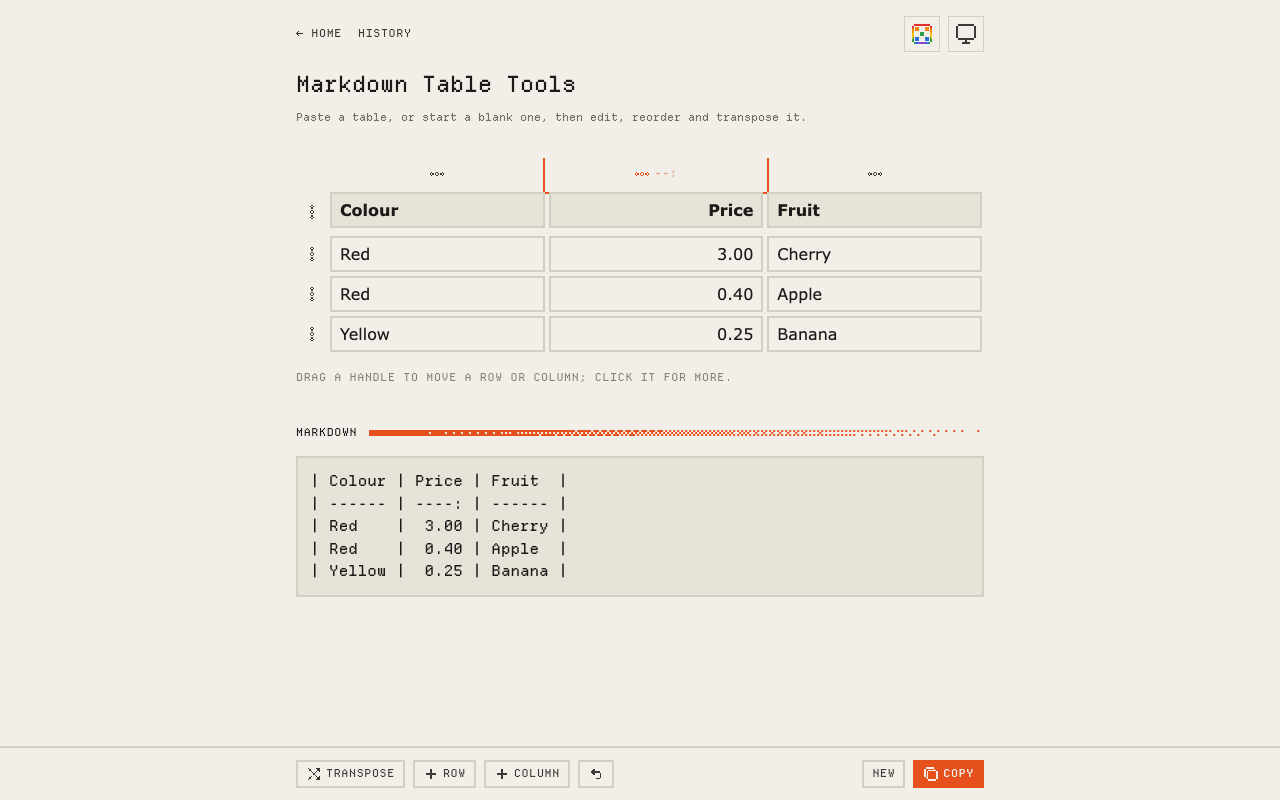
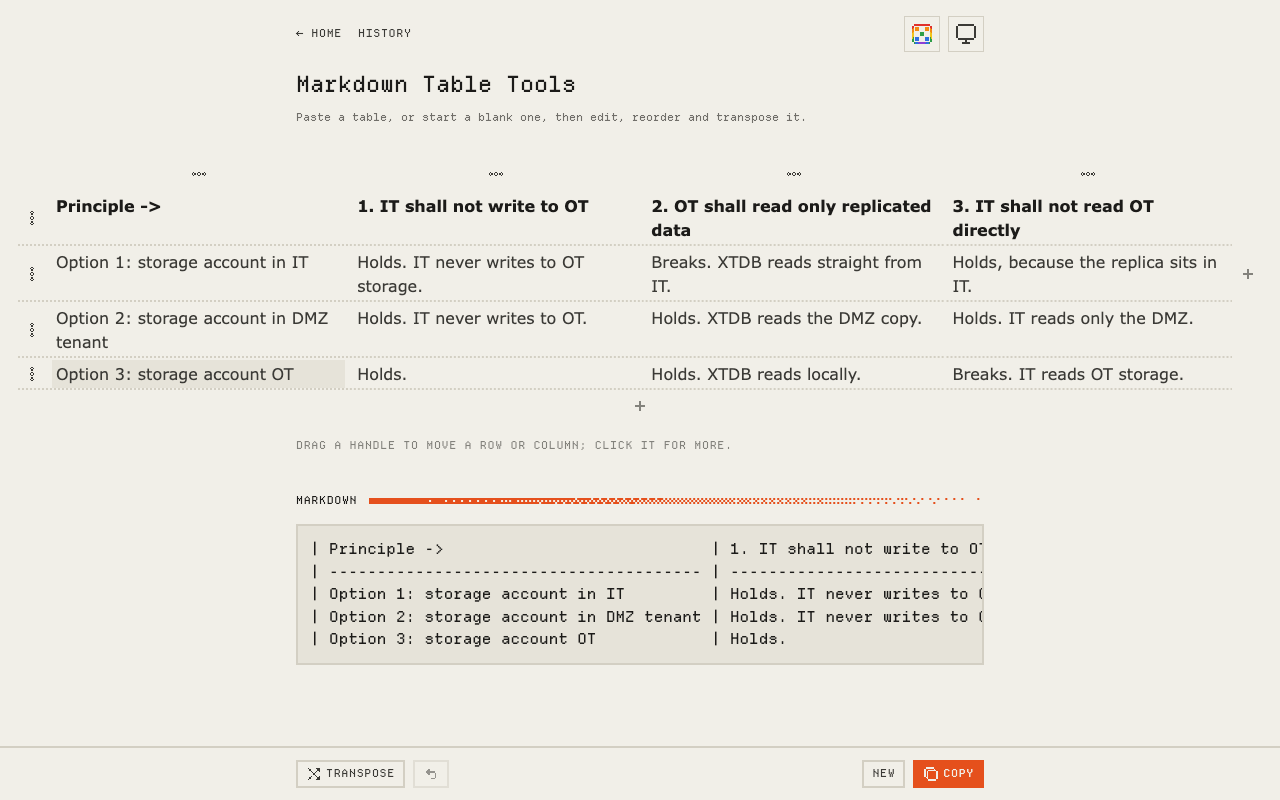
feat(markdown-table): cells show all their text in a plain table that can grow past the column
Cells are .pixel-grow textareas in a .pixel-table, so text wraps instead
of being cut off and the boxes are gone. The table sits in .pixel-bleed:
it widens out of the 720px column on a wide screen and scrolls sideways
on a phone. Add row and add column move from the palette to the table's
bottom and right edges, where the new row or column will appear. A cell
is one line in Markdown, so Enter moves down a row and pasted newlines
become spaces.

diff --git a/src/pages/markdown-table/_app/app.jsx b/src/pages/markdown-table/_app/app.jsx
@@ -187,18 +187,24 @@ const Editor = ({ table, update, undo, canUndo, onNew }) => {
     } catch { /* the Markdown is still on screen to select by hand */ }
   };
 
+  const moveOnEnter = (r, c) => e => {
+    if (e.key !== 'Enter') return;
+    e.preventDefault();
+    grid.current.querySelector(`[data-cell="${e.shiftKey ? r - 1 : r + 1},${c}"]`)?.focus();
+  };
+
   const handle = 'pixel-icon-button touch-none select-none cursor-grab active:cursor-grabbing';
   const alignClass = { left: 'text-left', center: 'text-center', right: 'text-right' };
 
   return (
     <>
-      <div className="mt-6 overflow-x-auto pb-2">
-        <table ref={grid} className="border-collapse">
-          <thead>
-            <tr>
-              <th aria-hidden="true" />
+      <div className="pixel-bleed mt-6 pb-2">
+        <table ref={grid} className="pixel-table w-auto mx-auto min-w-[min(100%,calc(720px-2rem))]">
+          <tbody>
+            <tr className="bg-none">
+              <td aria-hidden="true" className="p-0" />
               {table.align.map((align, c) => (
-                <th key={c} data-column-handle className="p-0 text-center" style={cellStyle(-1, c)}>
+                <td key={c} data-column-handle className="p-0 text-center" style={cellStyle(-1, c)}>
                   <button
                     type="button"
                     aria-label={`Column ${c + 1}`}
@@ -210,11 +216,20 @@ const Editor = ({ table, update, undo, canUndo, onNew }) => {
                     <Icon svg={gripHorizontal} className="w-4 h-4" />
                     {align && <span className="label ml-1 opacity-60">{{ left: ':--', center: ':-:', right: '--:' }[align]}</span>}
                   </button>
-                </th>
+                </td>
               ))}
+              <td rowSpan={rowCount + 1} className="relative w-8 p-0">
+                <button
+                  type="button"
+                  onClick={() => update(T.insertColumn(table, columnCount))}
+                  aria-label="Add column"
+                  title="Add column"
+                  className="pixel-icon-button absolute inset-0 w-full opacity-60 hover:opacity-100"
+                >
+                  <Icon svg={plusIcon} className="w-4 h-4" />
+                </button>
+              </td>
             </tr>
-          </thead>
-          <tbody>
             {table.cells.map((row, r) => (
               <tr key={r}>
                 <td data-row-handle className="p-0 align-middle" style={cellStyle(r, -1)}>
@@ -230,17 +245,37 @@ const Editor = ({ table, update, undo, canUndo, onNew }) => {
                   </button>
                 </td>
                 {row.map((value, c) => (
-                  <td key={c} className={`p-0.5 ${r === 0 ? 'pb-1.5' : ''} ${dragging(r, c) ? 'opacity-40' : ''}`} style={cellStyle(r, c)}>
-                    <input
-                      aria-label={`Row ${r + 1}, column ${c + 1}`}
-                      value={value}
-                      onChange={e => update(T.setCell(table, r, c, e.target.value), { typing: [r, c] })}
-                      className={`pixel-field w-full min-w-[7rem] ${alignClass[table.align[c]] ?? ''} ${r === 0 ? 'font-bold bg-code-bg' : ''}`}
-                    />
+                  <td key={c} className={`px-1 py-0.5 align-top ${dragging(r, c) ? 'opacity-40' : ''}`} style={cellStyle(r, c)}>
+                    <div className={`pixel-grow min-w-32 max-w-80 ${r === 0 ? 'font-bold text-heading' : ''}`} data-value={value}>
+                      <textarea
+                        rows={1}
+                        cols={1}
+                        data-cell={`${r},${c}`}
+                        aria-label={`Row ${r + 1}, column ${c + 1}`}
+                        value={value}
+                        onChange={e => update(T.setCell(table, r, c, e.target.value.replace(/\r?\n/g, ' ')), { typing: [r, c] })}
+                        onKeyDown={moveOnEnter(r, c)}
+                        className={alignClass[table.align[c]]}
+                      />
+                    </div>
                   </td>
                 ))}
               </tr>
             ))}
+            <tr className="bg-none">
+              <td className="p-0" />
+              <td colSpan={columnCount} className="p-0">
+                <button
+                  type="button"
+                  onClick={() => update(T.insertRow(table, rowCount))}
+                  aria-label="Add row"
+                  title="Add row"
+                  className="pixel-icon-button w-full opacity-60 hover:opacity-100"
+                >
+                  <Icon svg={plusIcon} className="w-4 h-4" />
+                </button>
+              </td>
+            </tr>
           </tbody>
         </table>
       </div>
@@ -252,12 +287,6 @@ const Editor = ({ table, update, undo, canUndo, onNew }) => {
       <div className="pixel-bar flex flex-wrap items-center gap-2">
         <button type="button" onClick={() => update(T.transpose(table))} className="pixel-button inline-flex items-center gap-1">
           <Icon svg={switchIcon} className="w-4 h-4" />Transpose
-        </button>
-        <button type="button" onClick={() => update(T.insertRow(table, rowCount))} aria-label="Add row" className="pixel-button inline-flex items-center gap-1">
-          <Icon svg={plusIcon} className="w-4 h-4" />Row
-        </button>
-        <button type="button" onClick={() => update(T.insertColumn(table, columnCount))} aria-label="Add column" className="pixel-button inline-flex items-center gap-1">
-          <Icon svg={plusIcon} className="w-4 h-4" />Column
         </button>
         <button type="button" onClick={undo} disabled={!canUndo} aria-label="Undo" title="Undo" className="pixel-button inline-flex items-center">
           <Icon svg={undoIcon} className="w-4 h-4" />

diff --git a/src/pages/markdown-table/_app/app.test.jsx b/src/pages/markdown-table/_app/app.test.jsx
@@ -70,6 +70,39 @@ describe('Markdown Table Tools', () => {
     expect(output()).toBe('|   a |\n| --: |');
   });
 
+  test('add row sits under the table and appends a row', () => {
+    render(<App />);
+    pasteTable('|a|\n|-|');
+    const add = screen.getByRole('button', { name: 'Add row' });
+    expect(add.closest('tbody')).toBeTruthy();
+    fireEvent.click(add);
+    expect(output()).toBe('| a   |\n| --- |\n|     |');
+  });
+
+  test('add column sits beside the table and appends a column', () => {
+    render(<App />);
+    pasteTable('|a|\n|-|');
+    const add = screen.getByRole('button', { name: 'Add column' });
+    expect(add.closest('table')).toBeTruthy();
+    fireEvent.click(add);
+    expect(output()).toBe('| a   |     |\n| --- | --- |');
+  });
+
+  test('a newline in a cell becomes a space, since a Markdown cell is one line', () => {
+    render(<App />);
+    pasteTable('|a|\n|-|');
+    fireEvent.change(cell(0, 0), { target: { value: 'two\nlines' } });
+    expect(cell(0, 0).value).toBe('two lines');
+  });
+
+  test('Enter moves to the cell below', () => {
+    render(<App />);
+    pasteTable('|a|\n|-|\n|1|');
+    cell(0, 0).focus();
+    fireEvent.keyDown(cell(0, 0), { key: 'Enter' });
+    expect(document.activeElement).toBe(cell(1, 0));
+  });
+
   test('the table survives a reload', () => {
     const { unmount } = render(<App />);
     pasteTable('|kept|\n|-|');
